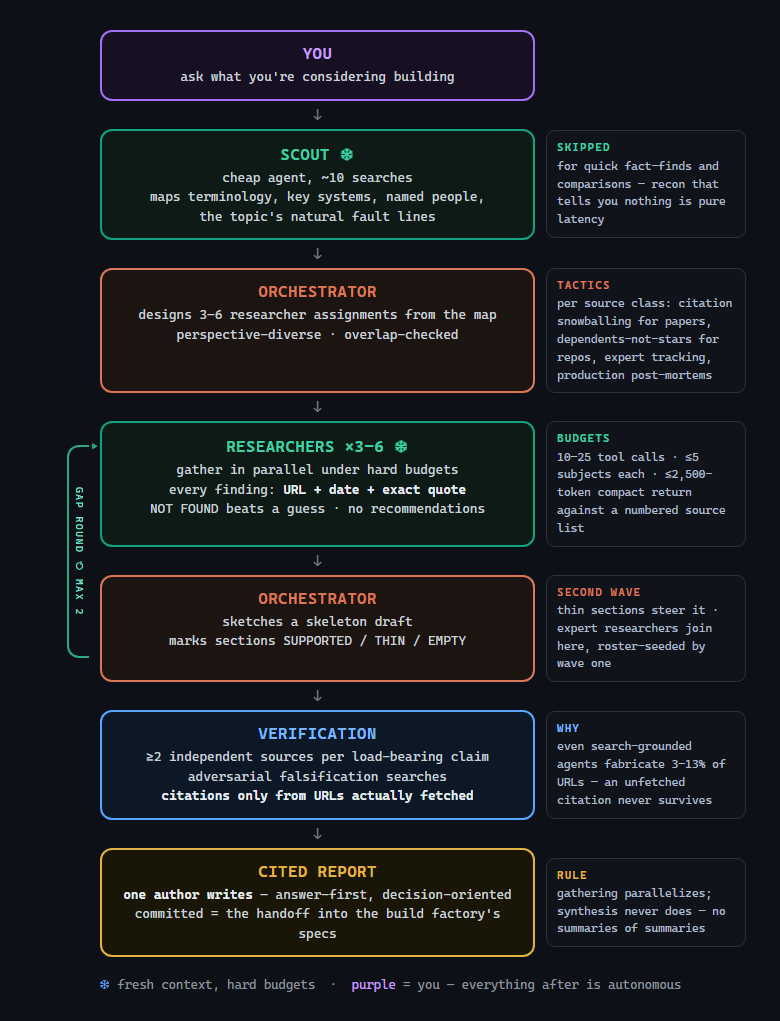
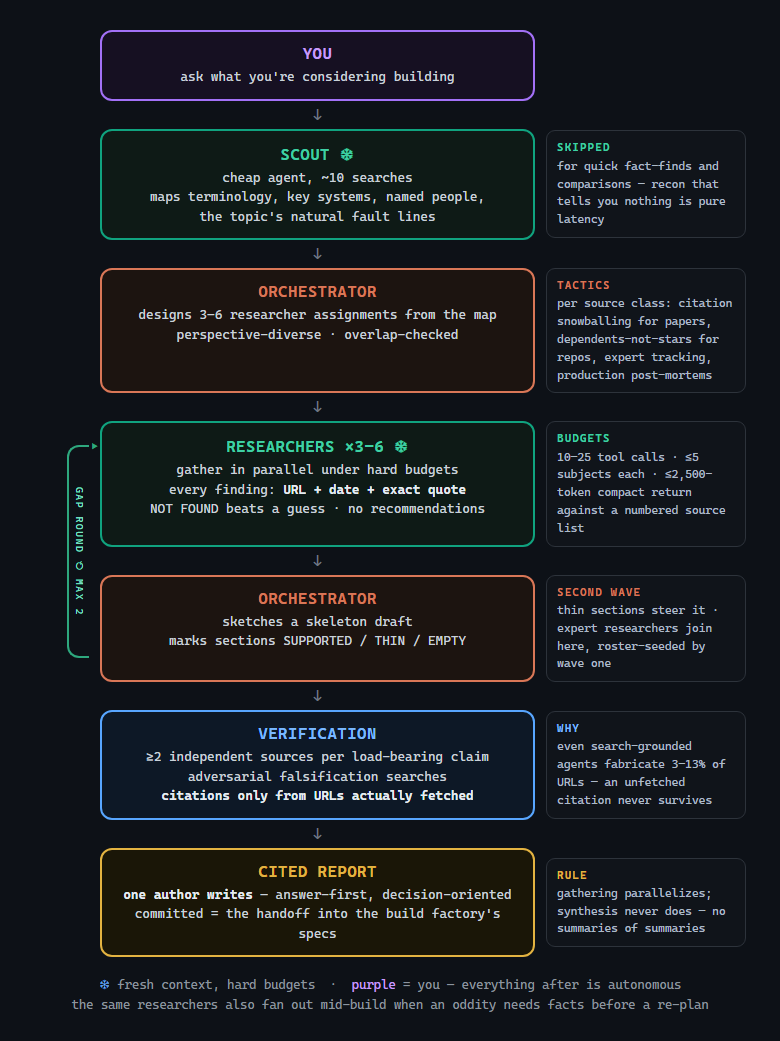
diagrams: status-tree legend, oddity-research in ADAPT, watchdog STATUS done-signal, cross-skill research note

diff --git a/assets/architect-flow.html b/assets/architect-flow.html
@@ -53,7 +53,7 @@
       <div class="who">ORCHESTRATOR</div>
       <div class="txt">dispatches every ready issue, ≤5 at once</div>
     </div>
-    <div class="note n-mon" style="grid-row:5;"><b>WATCHDOG</b>a script, not a model — byte growth, CPU, repeated commands · exits with evidence · never acts</div>
+    <div class="note n-mon" style="grid-row:5;"><b>WATCHDOG</b>a script, not a model — byte growth, CPU, repeated commands · done = a report's final STATUS line · never acts</div>
     <div class="dn" style="grid-row:6;">↓</div>
 
     <div class="raili" style="grid-row:7/12;"><span class="raillbl">FRESH BUILDER ❄</span></div>
@@ -73,7 +73,7 @@
       <div class="who">ORCHESTRATOR</div>
       <div class="txt"><b>PASS</b> → merge · close the issue<br><b>FAIL / BLOCKED</b> → adapt the issue, respawn</div>
     </div>
-    <div class="note n-orch" style="grid-row:11;"><b>ADAPT =</b>answer the blocker, amend the issue, forbid the failed path — <b>never</b> edit a frozen check</div>
+    <div class="note n-orch" style="grid-row:11;"><b>ADAPT =</b>answer the blocker, amend the issue, forbid the failed path — researchers fan out first when the new plan needs facts · <b>never</b> edit a frozen check</div>
 
     <div class="dn" style="grid-row:12;">↓</div>
     <div class="bx memo" style="grid-row:13;">
@@ -82,5 +82,5 @@
     </div>
     <div class="note n-memo" style="grid-row:13;"><b>MEMORY</b>not in the tracker = didn't happen — any session recovers from GitHub + git</div>
   </div>
-  <div class="legend"><span class="sn">❄</span> fresh context — nobody grades their own work &nbsp;·&nbsp; <span class="yu">purple</span> = the only step that needs you</div>
+  <div class="legend"><span class="sn">❄</span> fresh context — nobody grades their own work &nbsp;·&nbsp; <span class="yu">purple</span> = the only step that needs you<br>ask <b>"status"</b> anytime — the orchestrator prints the live job tree alongside its answer</div>
 </body></html>

diff --git a/assets/research-flow.html b/assets/research-flow.html
@@ -73,5 +73,5 @@
     </div>
     <div class="note n-memo" style="grid-row:13;"><b>RULE</b>gathering parallelizes; synthesis never does — no summaries of summaries</div>
   </div>
-  <div class="legend"><span class="sn">❄</span> fresh context, hard budgets &nbsp;·&nbsp; <span class="yu">purple</span> = you — everything after is autonomous</div>
+  <div class="legend"><span class="sn">❄</span> fresh context, hard budgets &nbsp;·&nbsp; <span class="yu">purple</span> = you — everything after is autonomous<br>the same researchers also fan out mid-build when an oddity needs facts before a re-plan</div>
 </body></html>
